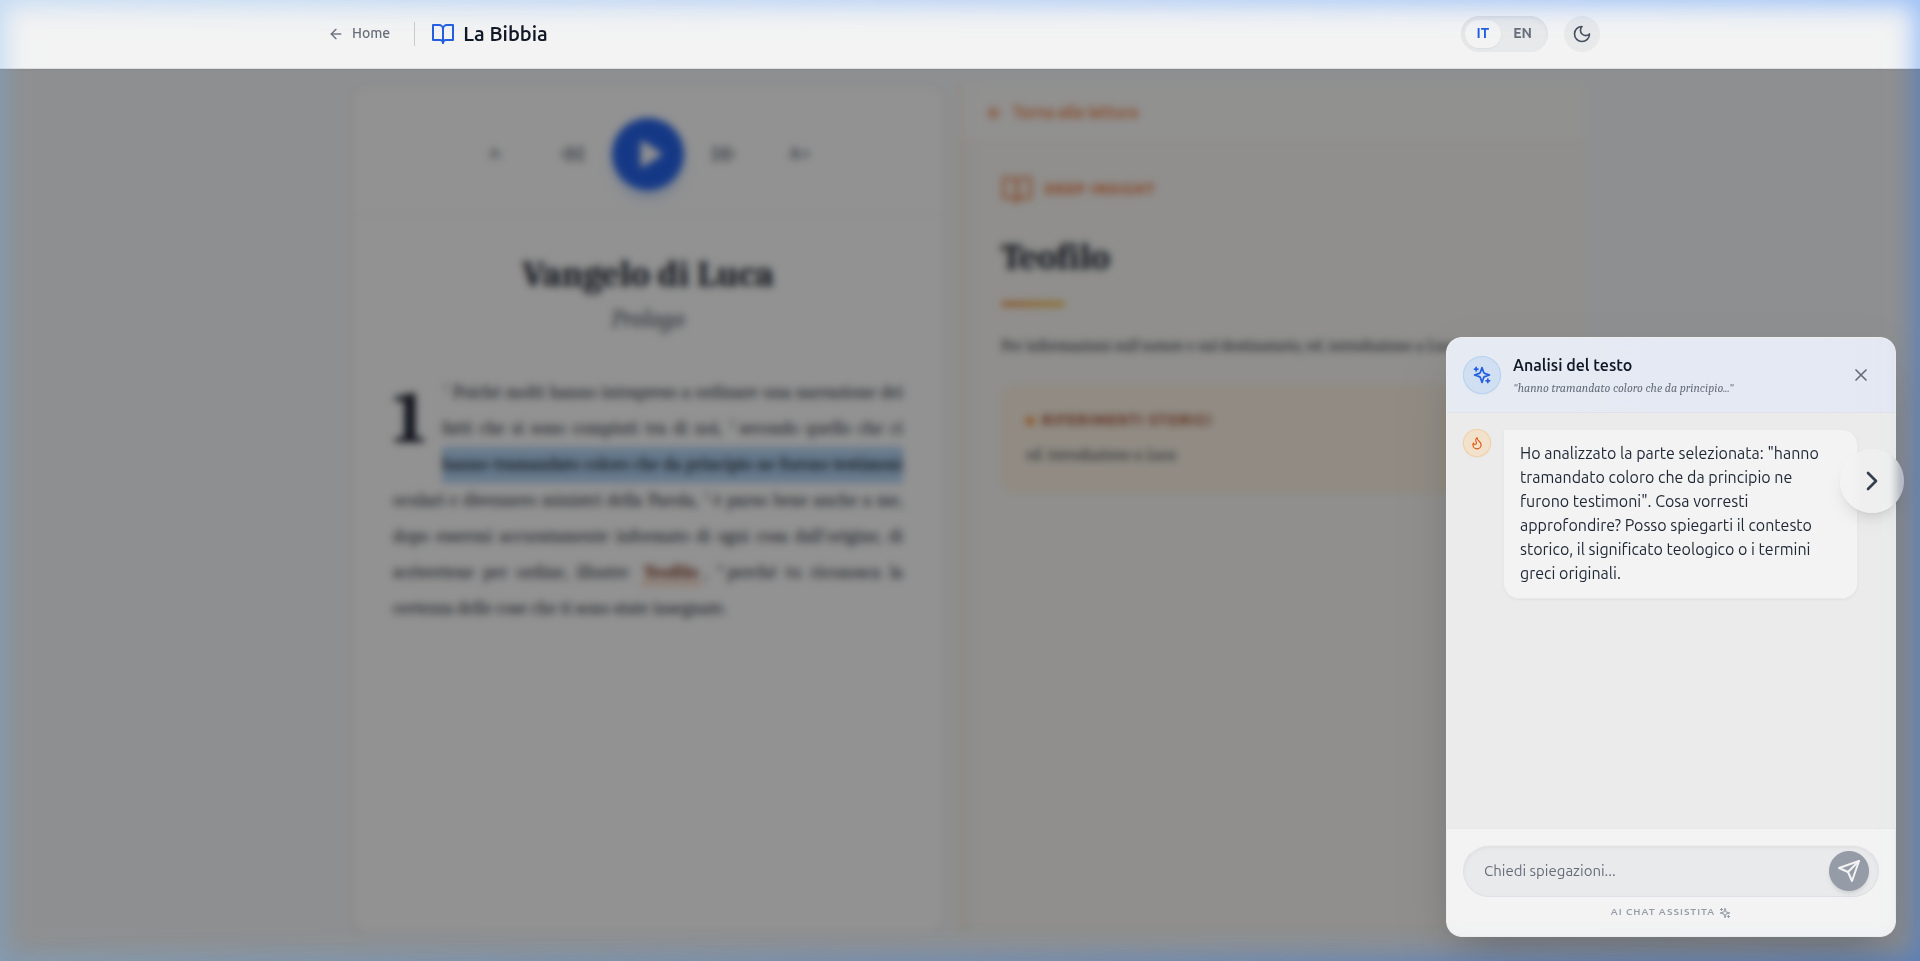
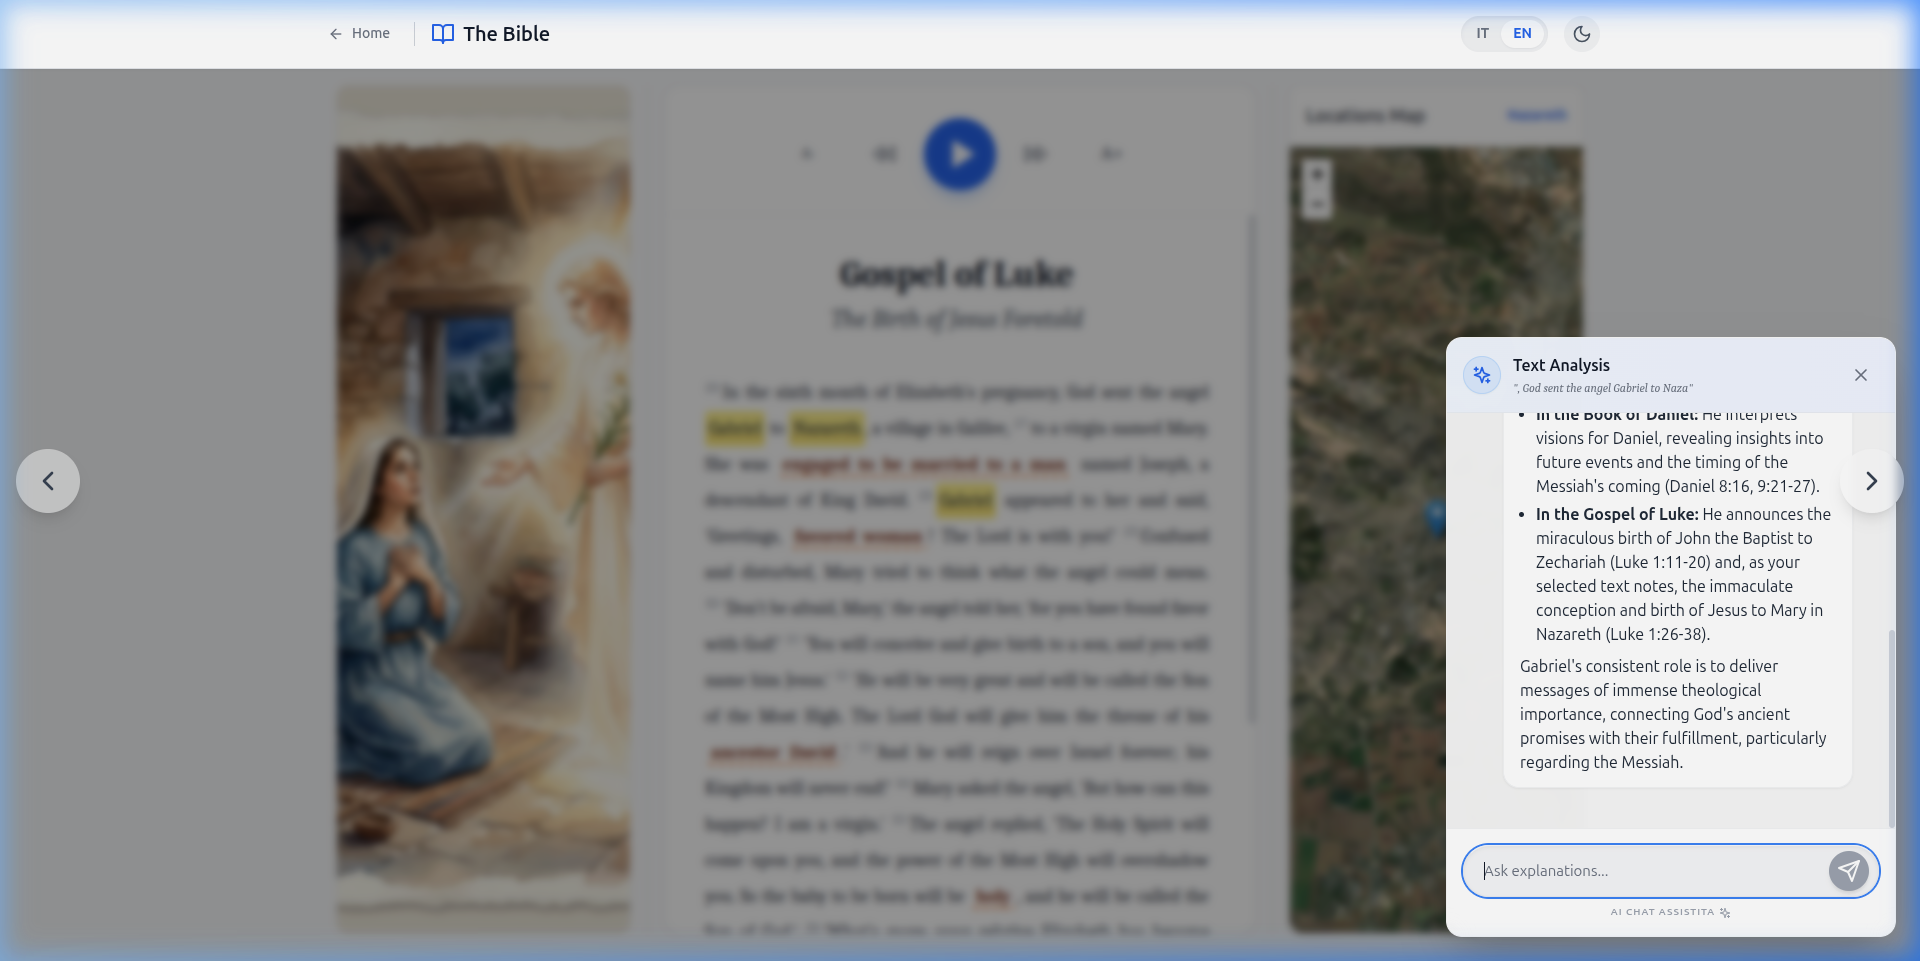
docs: redo README with English interface screenshots and detailed interactive guide

diff --git a/README.md b/README.md
@@ -15,26 +15,38 @@ A modern, immersive, and interactive React web application designed to explore s
 
 ## 🖼 Visual Overview
 
-| Main Landing Page | Deep Insight (50/50 View) | AI Analysis Drawer |
+| Main Landing Page | Chapter View | Glossary Popup |
 | :---: | :---: | :---: |
-| ![Home Page](public/screenshots/home_page.png) | ![Deep Insight](public/screenshots/chapter_view.png) | ![AI Analysis](public/screenshots/ai_analysis.png) |
+| ![Home Page](public/screenshots/home_page.png) | ![Chapter View](public/screenshots/chapter_view.png) | ![Glossary](public/screenshots/glossary_popup.png) |
+
+| AI Analysis Drawer | Deep Insight (50/50 View) |
+| :---: | :---: |
+| ![AI Analysis](public/screenshots/ai_analysis.png) | ![Deep Insight](public/screenshots/deep_insight.png) |
 
 ### 🎥 Project Demo
 [Watch the interactive session demo](public/screenshots/demo.webp)
 
 ## 📖 How to Use
 
-### 1. Exploring Deep Insights
+### 1. Navigating and Reading
+On the **Home Page**, click on a story card (e.g., "The Birth") to enter reading mode. Use the sidebar map to track locations or the top playback controls for text-to-speech.
+
+### 2. Exploring Deep Insights
 Inside a chapter, look for words with an **orange dashed underline**. 
 - **Click the term**: The layout will shift from a 3-column view to a 2-column "Deep Insight" mode.
-- **Read details**: The right panel will display a rich theological commentary, including historical references.
-- **Return**: Click the "Torna alla lettura" (Back to reading) button to restore the original layout.
+- **Read details**: The right panel will display a rich theological commentary, including historical and scriptural references.
+- **Return**: Click the "Back to Reading" button to restore the original layout.
 
-### 2. Using the AI Biblical Analyst
-For a deeper personalized study of any verse or phrase:
+### 3. Using the Glossary
+Words highlighted in **yellow** (like "Gabriel" or "Nazareth") contain quick definitions:
+- **Click or Hover**: A popup will appear with a concise explanation of the person, place, or term.
+
+### 4. Using the AI Biblical Analyst
+For a personalized study of any verse or phrase:
 1. **Select the Text**: Use your mouse to highlight any portion of the Bible text.
-2. **Click "Analizza brano"**: A small floating action button will appear near your selection.
-3. **Review Analysis**: A right-side drawer will open, where the AI Analyst (Gemini) will provide a detailed breakdown of the selected verses, including historical context and linguistic nuances.
+2. **Click the AI Icon**: A small action button will appear near your selection.
+3. **Ask the Analyst**: A right-side drawer will open. You can ask specific questions like *"Who is Gabriel?"* or *"Analyze the Greek root of this word."*
+4. **Review Analysis**: The AI provides a detailed breakdown including historical context and linguistic nuances.
 
 ## 🛠 Tech Stack
 - **React** (UI Components & State Management)
